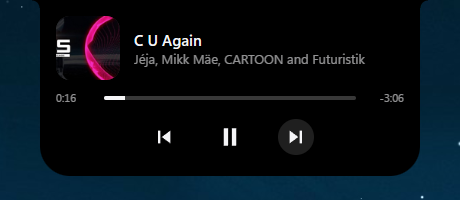
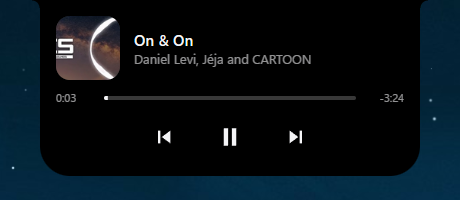
Update README

diff --git a/README.md b/README.md
@@ -22,7 +22,7 @@ Crest's tray icon (notification area, possibly behind the ^ arrow) has **Setting
 
 Compact, it's a small notch with the album art, the title and bouncing bars; hovered or clicked (or when a new song starts), it opens into the player above, and it slides up into the screen edge when there's nothing to show.
 
-<sub>Music in the demo: "C U Again" by Jéja, Mikk Mäe, CARTOON and Futuristik, an NCS release, provided by [NoCopyrightSounds](https://ncs.io).</sub>
+<sub>Music in the demo: "C U Again" by Jéja, Mikk Mäe, CARTOON and Futuristik, and "On & On" by CARTOON and Jéja (feat. Daniel Levi), NCS releases, provided by [NoCopyrightSounds](https://ncs.io).</sub>
 
 ## What makes Crest different
 
